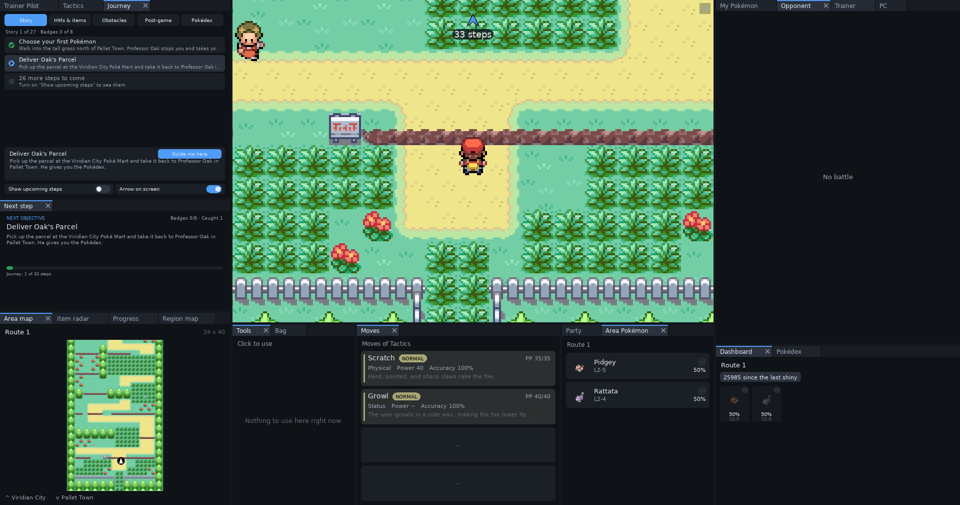
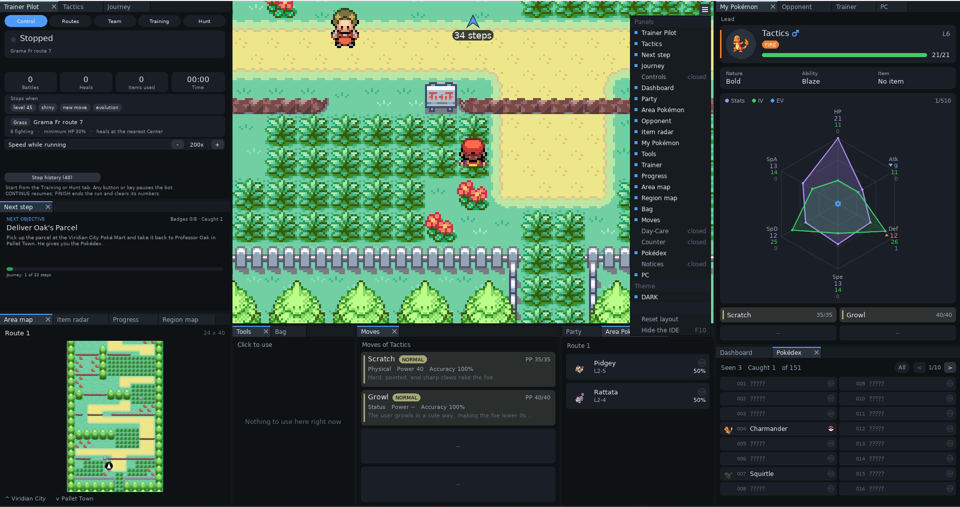
README: picture with the panel menu, the Pokémon sheet and the Pokédex
Claude-Session: https://claude.ai/code/session_01HMf4UKgb4TixbGZC4FPa9s

diff --git a/README.md b/README.md
@@ -2,7 +2,9 @@
 
 An IDE-style layout for Gen1Recomp: the game keeps the middle of the window, and panels supplied by other mods sit in docks around it, with tabs, draggable dividers and their own desktop windows.
 
-![Trainer Desk: the game in the middle and panels from other mods in docks around it](docs/images/layout.png)
+![Trainer Desk: the game in the middle, panels from other mods in docks around it, and the menu that shows or closes panels](docs/images/menu.jpg)
+
+![The same window with other tabs chosen](docs/images/layout.png)
 
 Built for Pokémon FireRed/LeafGreen on Gen1Recomp (mod API 3). Trainer Desk has no panels of its own; it hosts the ones other mods register, such as Trainer Lens and Trainer Pilot.
 
